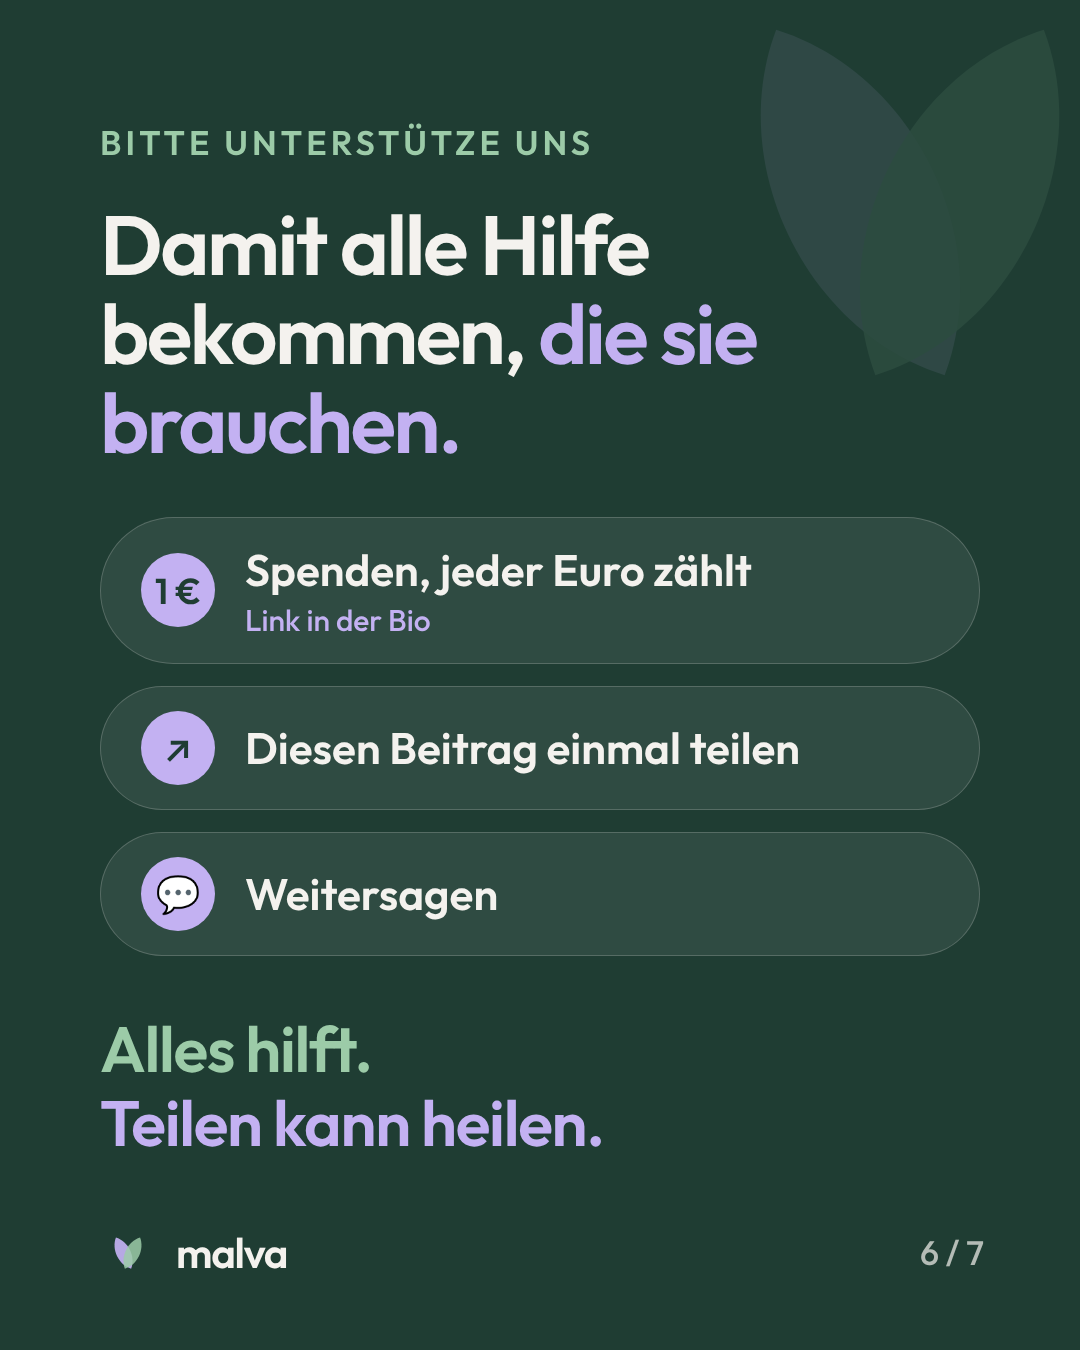
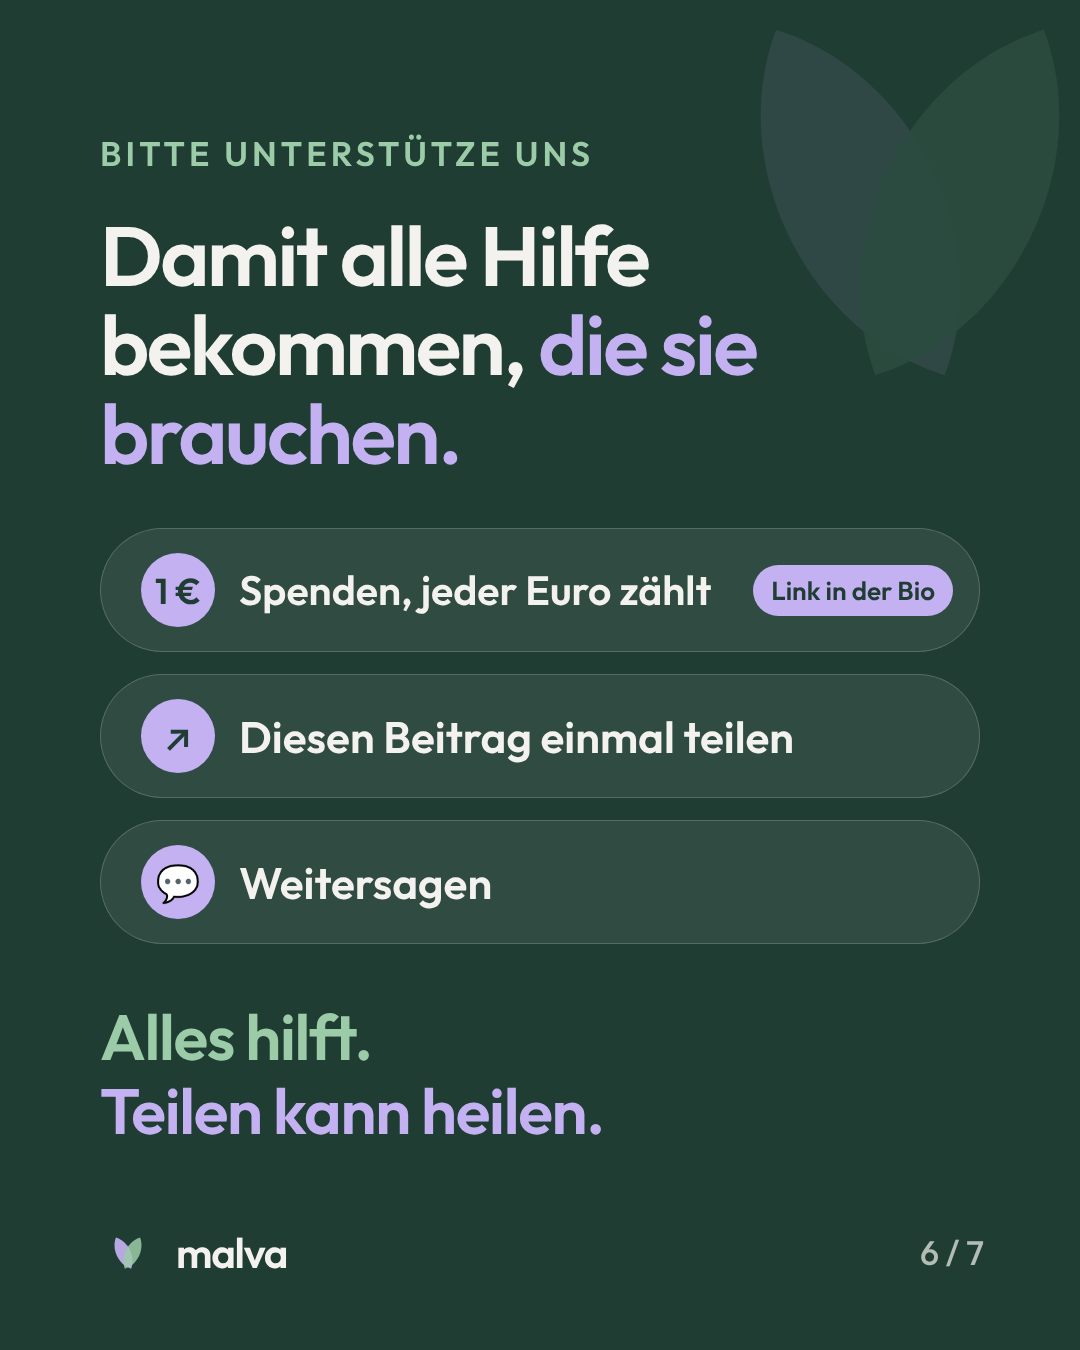
Karussell Folie 6: Link in der Bio rechts
Claude-Session: https://claude.ai/code/session_015uEer6M6e5oi78ZvJtGjnt

diff --git a/malva-website/instagram/psychotherapie-2027/slides.html b/malva-website/instagram/psychotherapie-2027/slides.html
@@ -50,7 +50,7 @@ h2{font-weight:600;font-size:84px;line-height:1.06;letter-spacing:-.03em}
 .four svg{width:120px;height:auto}
 
 .cta{display:flex;flex-direction:column;gap:22px;margin-top:50px}
-.cta div{display:flex;align-items:center;gap:30px;background:rgba(244,242,238,.08);border:1px solid rgba(244,242,238,.2);border-radius:999px;padding:24px 40px;font-size:44px;font-weight:600}
+.cta div{display:flex;align-items:center;gap:24px;background:rgba(244,242,238,.08);border:1px solid rgba(244,242,238,.2);border-radius:999px;padding:24px 40px;font-size:44px;font-weight:600}
 .cta span.ic{width:74px;height:74px;border-radius:50%;background:var(--ll);color:var(--g);display:grid;place-items:center;font-size:36px;flex:none}
 .big-sage{color:var(--sl);font-weight:600;font-size:64px;line-height:1.15;margin-top:56px;letter-spacing:-.02em}
 .handle{display:inline-block;margin-top:50px;background:var(--g);color:var(--c);border-radius:999px;padding:26px 52px;font-size:56px;font-weight:600;letter-spacing:-.02em}
@@ -130,7 +130,7 @@ h2{font-weight:600;font-size:84px;line-height:1.06;letter-spacing:-.03em}
   <p class="kicker">Bitte unterstütze uns</p>
   <h2>Damit alle Hilfe bekommen, <span class="hl">die sie brauchen.</span></h2>
   <div class="cta">
-    <div><span class="ic">1 €</span><span>Spenden, jeder Euro zählt<span style="display:block;font-size:30px;font-weight:500;color:var(--ll);margin-top:4px">Link in der Bio</span></span></div>
+    <div style="font-size:41px;gap:24px;padding-right:26px"><span class="ic">1 €</span><span style="white-space:nowrap">Spenden, jeder Euro zählt</span><span style="margin-left:auto;font-size:26px;font-weight:600;color:var(--g);background:var(--ll);border-radius:999px;padding:9px 18px;white-space:nowrap">Link in der Bio</span></div>
     <div><span class="ic">↗</span>Diesen Beitrag einmal teilen</div>
     <div><span class="ic">💬</span>Weitersagen</div>
   </div>
